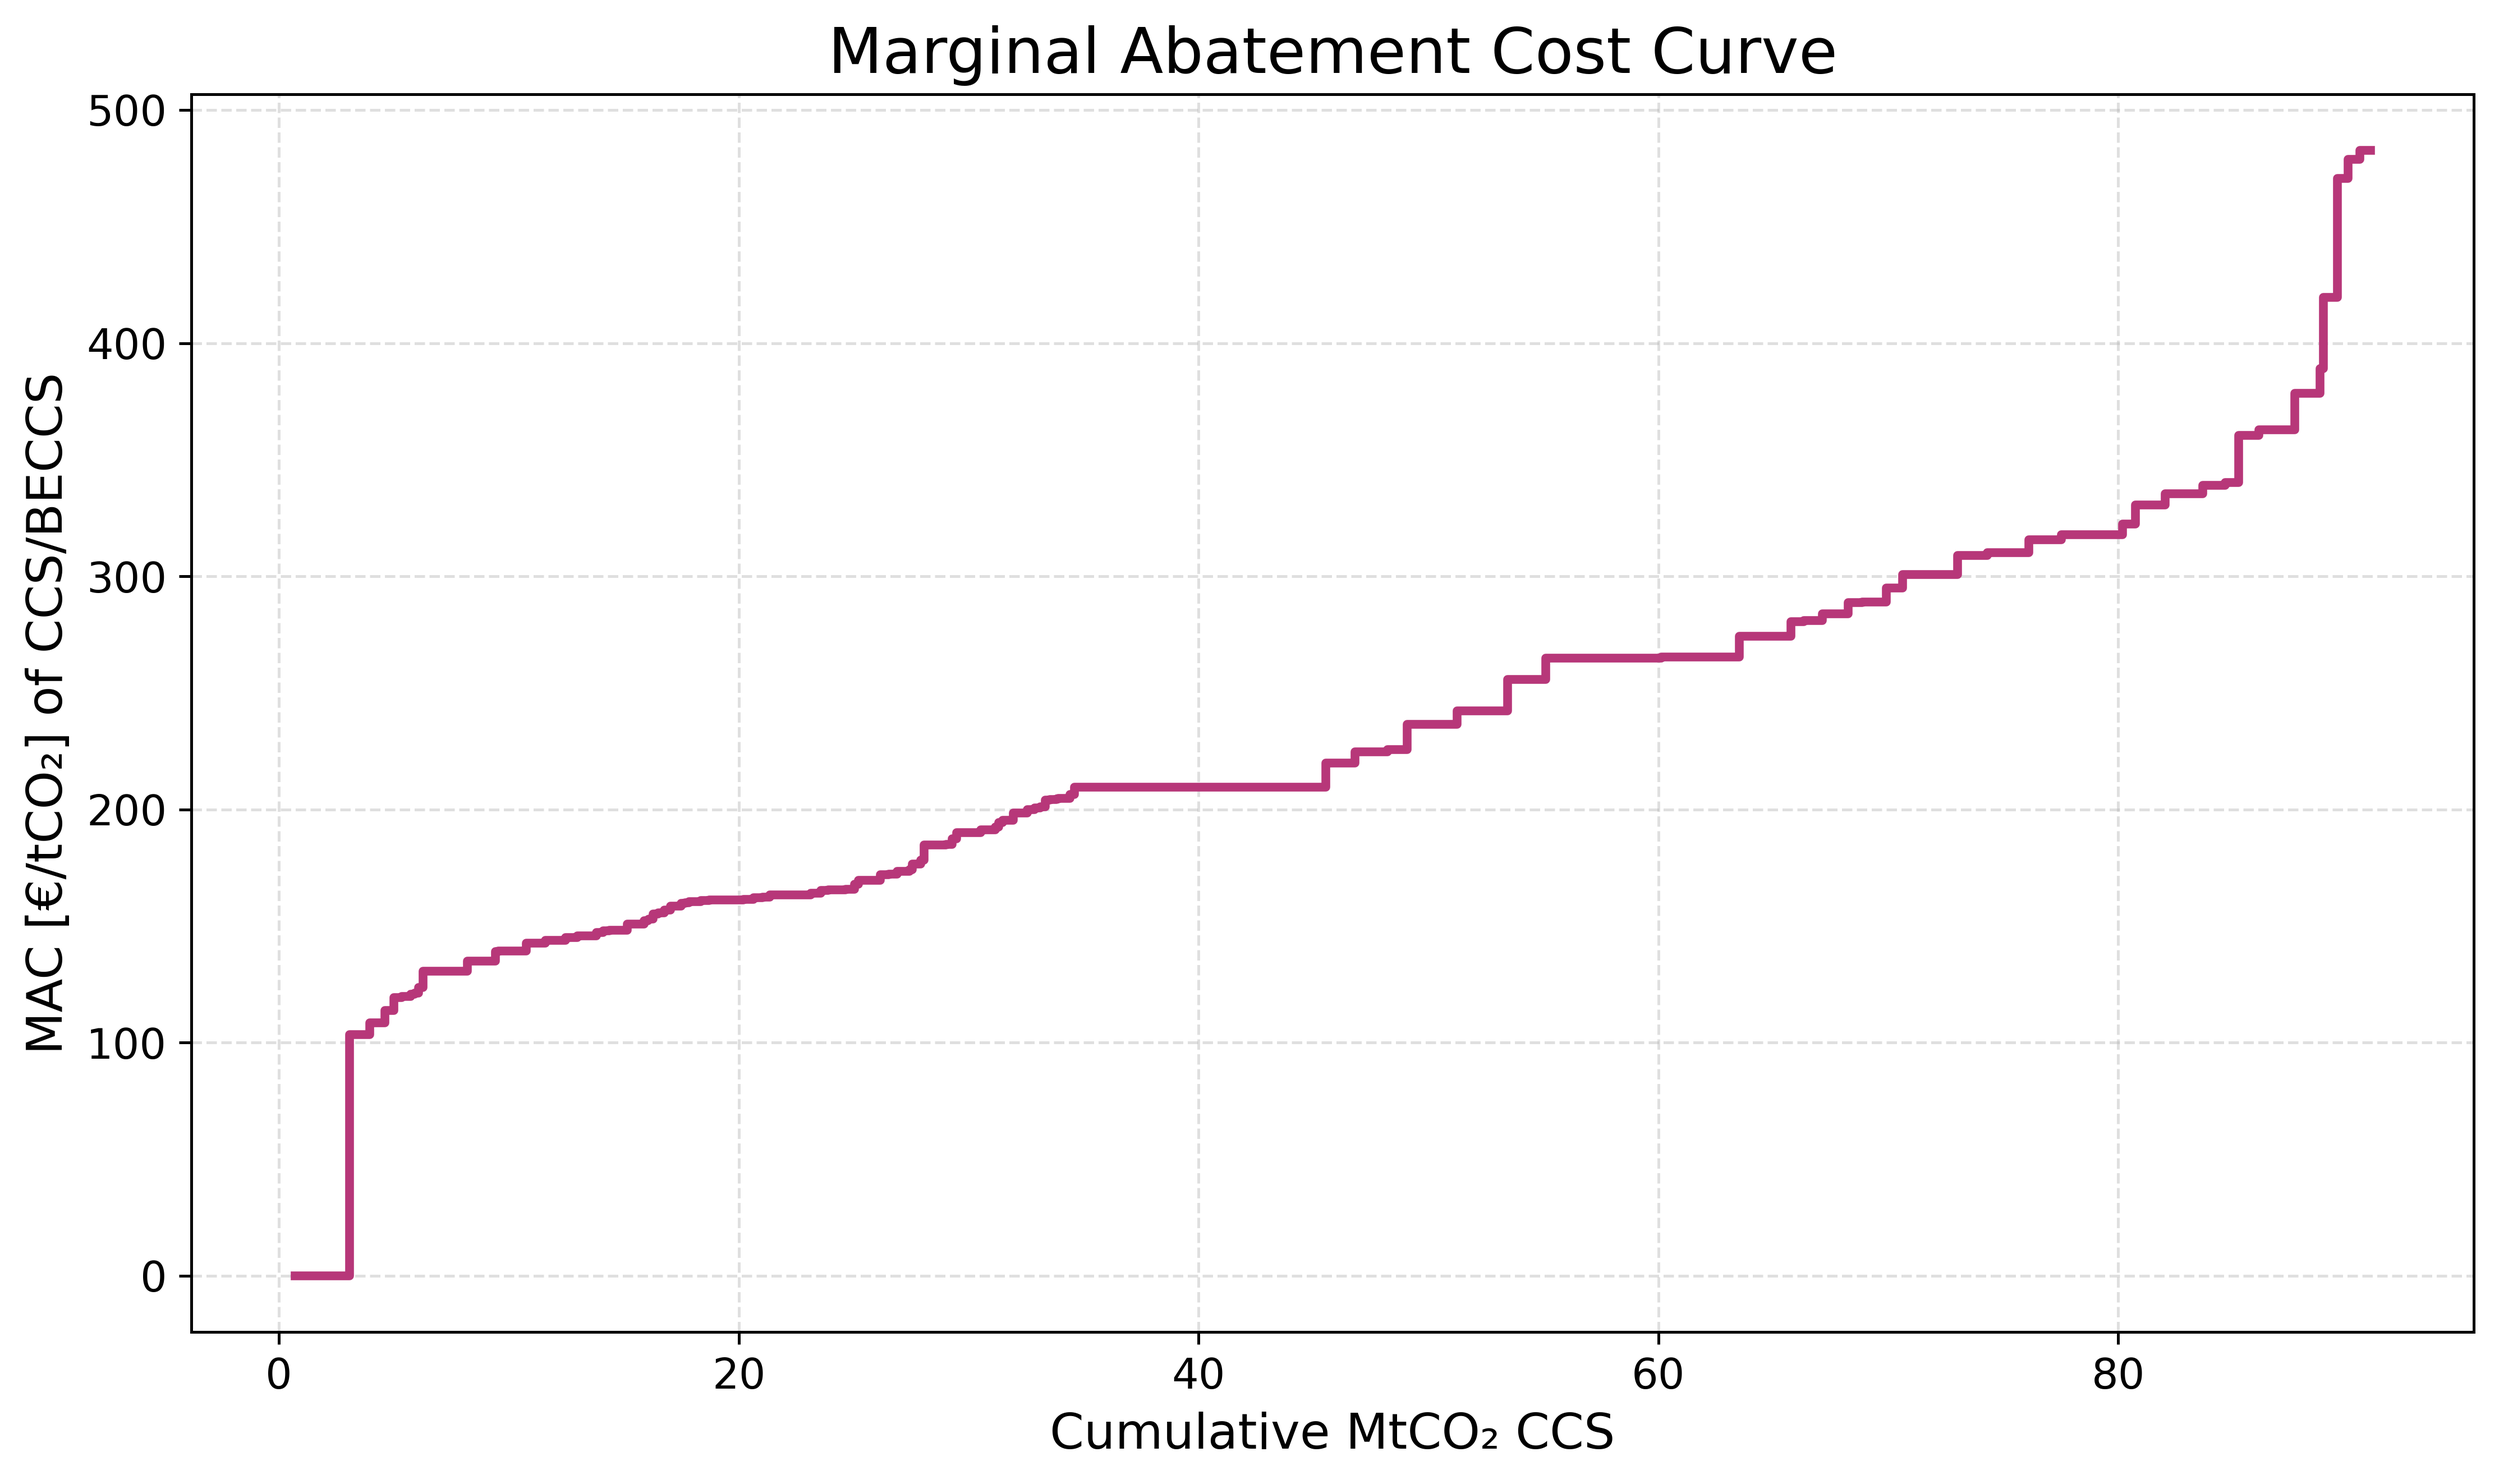
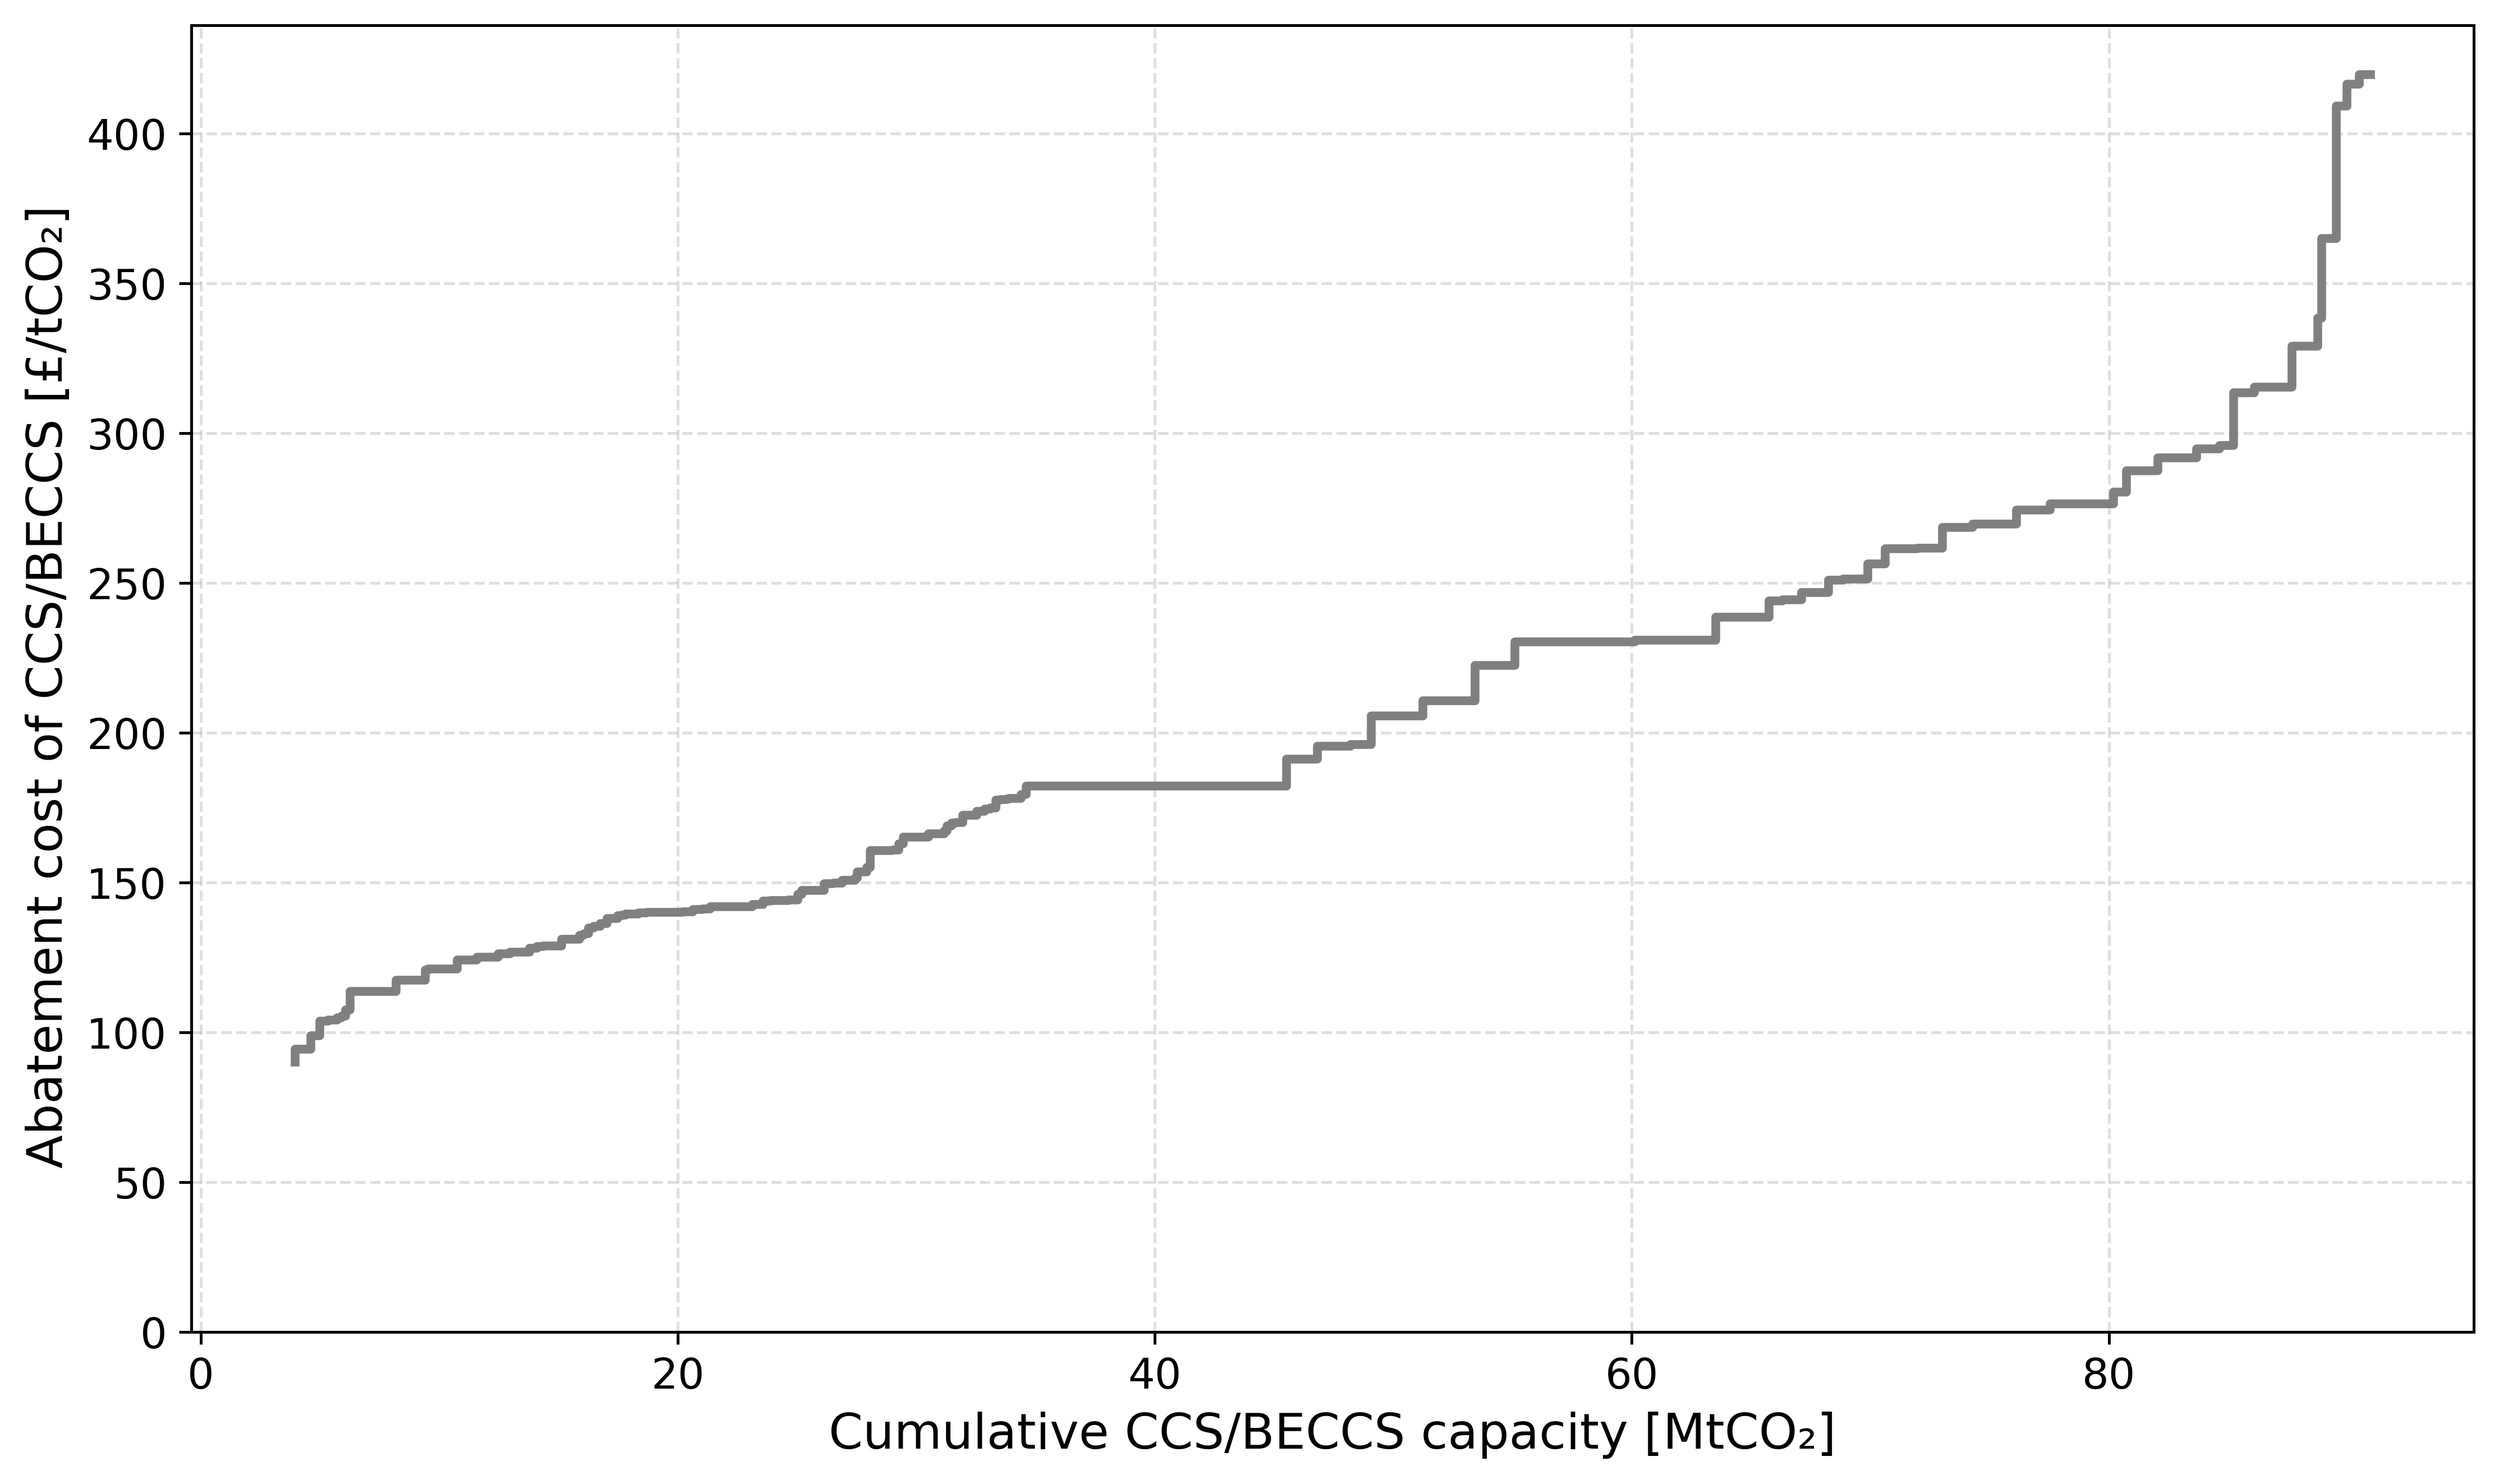
Making fancy plots

diff --git a/stylistic.py b/stylistic.py
@@ -1,7 +1,7 @@
 import numpy as np
 import matplotlib.pyplot as plt
 
-def plot_stylistic_supply_stored(debug=False):
+def plot_stylistic_supply_stored(color='gray', debug=False):
     """
     Stylistic stackplot showing CO2 supply (left y-axis) and CO2 stored (right y-axis).
     """
@@ -32,10 +32,10 @@ def plot_stylistic_supply_stored(debug=False):
     
     # Right y-axis: CO2 stored (empty for now, same ticks as left)
     ax2 = ax1.twinx()
-    ax2.set_ylabel('Carbon storage [MtCO₂/yr]', fontsize=14, color='#902c80')
+    ax2.set_ylabel('Carbon storage [MtCO₂/yr]', fontsize=14, color=color)
     ax2.set_ylim(0, 300)
     ax2.set_yticks([0, 100, 200, 300])
-    ax2.tick_params(labelsize=12, colors='#902c80')
+    ax2.tick_params(labelsize=12, colors=color)
     
     plt.tight_layout()
     plt.savefig('results/stylistic_supply_stored.png', dpi=450, bbox_inches='tight')
@@ -45,7 +45,7 @@ def plot_stylistic_supply_stored(debug=False):
     
     return fig
 
-def plot_stylistic_supply_vs_stored(debug=False):
+def plot_stylistic_supply_vs_stored(color='gray', debug=False):
     """
     Stylistic stackplot showing constant CO2 supply with quadratic CO2 stored overlay.
     """
@@ -77,11 +77,11 @@ def plot_stylistic_supply_vs_stored(debug=False):
     
     # Right y-axis: CO2 stored (stackplot)
     ax2 = ax1.twinx()
-    ax2.stackplot(years, stored, colors=['#902c80'], alpha=0.7, labels=['CO₂ stored'])
-    ax2.set_ylabel('Carbon storage [MtCO₂/yr]', fontsize=14, color='#902c80')
+    ax2.stackplot(years, stored, colors=[color], alpha=0.7, labels=['CO₂ stored'])
+    ax2.set_ylabel('Carbon storage [MtCO₂/yr]', fontsize=14, color=color)
     ax2.set_ylim(0, 300)
     ax2.set_yticks([0, 100, 200, 300])
-    ax2.tick_params(labelsize=12, colors='#902c80')
+    ax2.tick_params(labelsize=12, colors=color)
     
     plt.tight_layout()
     plt.savefig('results/stylistic_supply_vs_stored.png', dpi=450, bbox_inches='tight')
@@ -91,7 +91,7 @@ def plot_stylistic_supply_vs_stored(debug=False):
     
     return fig
 
-def plot_stylistic_decreasing_supply_stored(debug=False):
+def plot_stylistic_decreasing_supply_stored(color='gray', debug=False):
     """
     Stylistic stackplot showing decreasing CO2 supply with quadratic CO2 stored overlay.
     """
@@ -123,11 +123,11 @@ def plot_stylistic_decreasing_supply_stored(debug=False):
     
     # Right y-axis: CO2 stored (stackplot)
     ax2 = ax1.twinx()
-    ax2.stackplot(years, stored, colors=['#902c80'], alpha=0.7, labels=['CO₂ stored'])
-    ax2.set_ylabel('Carbon storage [MtCO₂/yr]', fontsize=14, color='#902c80')
+    ax2.stackplot(years, stored, colors=[color], alpha=0.7, labels=['CO₂ stored'])
+    ax2.set_ylabel('Carbon storage [MtCO₂/yr]', fontsize=14, color=color)
     ax2.set_ylim(0, 300)
     ax2.set_yticks([0, 100, 200, 300])
-    ax2.tick_params(labelsize=12, colors='#902c80')
+    ax2.tick_params(labelsize=12, colors=color)
     
     plt.tight_layout()
     plt.savefig('results/stylistic_decreasing_supply_stored.png', dpi=450, bbox_inches='tight')
@@ -138,7 +138,9 @@ def plot_stylistic_decreasing_supply_stored(debug=False):
     return fig
 
 if __name__ == "__main__":
-    plot_stylistic_supply_stored(debug=True)
-    plot_stylistic_supply_vs_stored(debug=True)
-    plot_stylistic_decreasing_supply_stored(debug=True)
+    magma = plt.cm.magma
+    color = magma(0.2)
+    plot_stylistic_supply_stored(color=color, debug=True)
+    plot_stylistic_supply_vs_stored(color=color, debug=True)
+    plot_stylistic_decreasing_supply_stored(color=color, debug=True)
     plt.show()

diff --git a/illustrate.py b/illustrate.py
@@ -150,7 +150,7 @@ def plot_gas_increase_boxplots(results_dir='results', pounds_to_EUR=1.15, ets_sc
     # ax.set_xlabel('Year', fontsize=14)
     ax.tick_params(labelsize=12)
     y1_min, y1_max = ax.get_ylim()
-    ax.set_ylim(y1_min, 4.7)
+    ax.set_ylim(y1_min, 4.9)
     
     # Secondary y-axis: annual household bill (11200 kWh avg consumption)
     household_consumption = 11200  # kWh/year
@@ -239,7 +239,7 @@ def plot_cost_ctbo_producers_boxplots(results_dir='results', pounds_to_EUR=1.15,
     ax.set_xticklabels(target_years, fontsize=12)
     ax.set_ylabel('CTBO cost to producers [B£/yr]', fontsize=14)
     ylims = ax.get_ylim()
-    ax.set_ylim(ylims[0], 27)
+    ax.set_ylim(ylims[0], 30)
     # ax.set_xlabel('Year', fontsize=14)
     ax.tick_params(labelsize=12)
     
@@ -432,7 +432,7 @@ def plot_plant_npv_bubbles(results_dir='results', ETS_filter=None, pounds_to_EUR
     ax.set_xlim(2025, 2050)
     ax.set_xticks(np.arange(2025, 2051, 5))
     y1_min, y1_max = ax.get_ylim()
-    ax.set_ylim(y1_min, 8000)
+    ax.set_ylim(-6000, 8000)
     
     fig.subplots_adjust(left=0.17, right=0.95, top=0.97, bottom=0.10)
     plt.savefig(f'{results_dir}/4_plant_npv_total_bubbles.png', dpi=450)
@@ -554,7 +554,7 @@ def plot_plant_npv_csu_bubbles(results_dir='results', ETS_filter=None, exclude_s
     ax.set_xlim(2025, 2050)
     ax.set_xticks(np.arange(2025, 2051, 5))
     y1_min, y1_max = ax.get_ylim()
-    ax.set_ylim(y1_min, 850)
+    ax.set_ylim(-50, 850)
     
     fig.subplots_adjust(left=0.17, right=0.95, top=0.97, bottom=0.10)
     plt.savefig(f'{results_dir}/4_plant_npv_csu_bubbles.png', dpi=450)
@@ -701,11 +701,12 @@ def plot_policy_npv_boxplots(results_dir='results', pounds_to_EUR=1.15, debug=Fa
     
     scenarios = ['£200', '£300', '£400']
 
-    npv_labels = ['Policy cost (CfD eq.)', 'Policy cost (CTBO)', 'Fuel supplier costs (CTBO)', 'Emitter and T&S profits (CTBO)']
+    # Labels and styling (reversed so first item appears at top in horizontal boxplot)
+    npv_labels = ['Policy cost (CfD eq., -20% cost)', 'Policy cost (CTBO)', 'Fuel supplier costs (CTBO)', 'Emitter and T&S profits (CTBO)'][::-1]
 
     green = '#62a7a6'
-    box_colors = [green, green, green, green]
-    box_alphas = [1, 1, 0.4, 0.4]
+    box_colors = [green, green, green, green][::-1]
+    box_alphas = [1, 1, 0.4, 0.4][::-1]
     
     # First pass: calculate data for all scenarios and find global min/max
     scenario_data = {}
@@ -737,12 +738,6 @@ def plot_policy_npv_boxplots(results_dir='results', pounds_to_EUR=1.15, debug=Fa
     
     if debug:
         print(f"Global y-axis limits: {ylim}")
-
-    # Flip order of boxes
-    npv_data = npv_data[::-1]
-    npv_labels = npv_labels[::-1]
-    box_colors = box_colors[::-1]
-    box_alphas = box_alphas[::-1]
     
     # Second pass: create figures with consistent y-axis
     figs = []
@@ -752,7 +747,7 @@ def plot_policy_npv_boxplots(results_dir='results', pounds_to_EUR=1.15, debug=Fa
                 print(f"No data for ETS_SCENARIO={scenario}")
             continue
         
-        npv_data = scenario_data[scenario]
+        npv_data = scenario_data[scenario][::-1]  # Reverse to match flipped labels/colors
 
         fig, ax = plt.subplots(figsize=(6.4, 3))
 

diff --git a/ctbo.py b/ctbo.py
@@ -569,6 +569,8 @@ def simulate_ctbo(
         ccgt_plants = plants_clean[plants_clean['sector'] == 'ccgt']
         ccgt_even = ccgt_plants.iloc[::2]
         plants_clean = pd.concat([plants_clean[plants_clean['sector'] != 'ccgt'], ccgt_even])
+    if single_run:
+        print("Total point-sources of carbon =", plants_clean['ktCO2'].sum(), "ktCO2")
 
     # ------------------- CONSTRUCT THE MACC ---------------------
     MACC = pd.DataFrame(columns=[
@@ -646,7 +648,7 @@ def simulate_ctbo(
 
     if single_run:
         MACC.to_csv('results/macc.csv', index=False)
-        plot_macc(MACC, savefig=True)
+        plot_macc(MACC, pounds_to_EUR=pounds_to_EUR, savefig=True)
 
     # ------------------- SIMULATE THE CTBO ---------------------
     # Calculate diffuse carbon trajectories by subtracting point-source carbon from total supply
@@ -1331,7 +1333,7 @@ def plot_npv_total_bubbles(npv_results, savefig=False, debug=False):
     
     return len(df)
 
-def plot_macc(macc, savefig=False, debug=False):
+def plot_macc(macc, pounds_to_EUR=1.15, savefig=False, debug=False):
     """
     Plot the MACC curve with cumulative ktCO2tot_ccs on the x axis and MAC on the y axis.
     """
@@ -1355,11 +1357,14 @@ def plot_macc(macc, savefig=False, debug=False):
     # Filter to only plot plants with MAC != 0 (but cumulative already includes MAC=0 capacity)
     macc_nonzero = macc_plot[macc_plot['MAC'] != 0]
 
+    # Convert MAC to £/tCO₂
+    macc_nonzero['MAC'] = macc_nonzero['MAC'] / pounds_to_EUR
+
     fig, ax = plt.subplots(figsize=(10, 6))
     ax.step(macc_nonzero['cumulative_kt']/1000, macc_nonzero['MAC'], where='pre', color='gray', linewidth=2.5)
-    ax.set_xlabel("Cumulative MtCO₂ CCS", fontsize=14)
-    ax.set_ylabel("MAC [€/tCO₂] of CCS/BECCS", fontsize=14)
-    ax.set_title("Marginal Abatement Cost Curve", fontsize=18)
+    ax.set_xlabel("Cumulative CCS/BECCS capacity [MtCO₂]", fontsize=14)
+    ax.set_ylabel("Abatement cost of CCS/BECCS [£/tCO₂] ", fontsize=14)
+    # ax.set_title("Marginal Abatement Cost Curve", fontsize=18)
     ax.grid(True, linestyle='--', alpha=0.4)
     ax.tick_params(labelsize=12)
     # Get the ylims

diff --git a/characterize_stacks.py b/characterize_stacks.py
@@ -262,9 +262,9 @@ def create_all_plants_map(europe, plants_gdf, bubble_scaling=1.0, remaining_gdf=
                 no_shipping.geometry.y,
                 marker='D',
                 s=120,
-                c='#62A7A6',
+                c='whitesmoke',
                 edgecolors='black',
-                linewidth=0.8,
+                linewidth=1.0,
                 label='Storage hub'
             )
         if len(shipping) > 0:
@@ -275,7 +275,7 @@ def create_all_plants_map(europe, plants_gdf, bubble_scaling=1.0, remaining_gdf=
                 s=120,
                 c='#E55064',
                 edgecolors='black',
-                linewidth=0.8,
+                linewidth=1.0,
                 label='Export hub'
             )
     legend = ax.legend(loc='lower left')
@@ -360,9 +360,9 @@ def create_sector_map(europe, plants_gdf, bubble_scaling=1.0, remaining_gdf=None
                 no_shipping.geometry.y,
                 marker='D',
                 s=120,
-                c='#62A7A6',
+                c='whitesmoke',
                 edgecolors='black',
-                linewidth=0.8,
+                linewidth=1.0,
                 label='Storage hub'
             )
             legend_handles.append(h1)
@@ -374,7 +374,7 @@ def create_sector_map(europe, plants_gdf, bubble_scaling=1.0, remaining_gdf=None
                 s=120,
                 c='#E55064',
                 edgecolors='black',
-                linewidth=0.8,
+                linewidth=1.0,
                 label='Export hub'
             )
             legend_handles.append(h2)

diff --git a/controller.py b/controller.py
@@ -110,7 +110,7 @@ if __name__ == "__main__":
         Constant("plants_clean", plants_clean),
         Constant("transport_hubs", transport_hubs),
         Constant("single_run", False),
-        Constant("PHASEOUT", False),
+        Constant("PHASEOUT", True),
         Constant("ASSUME_FOAK", False),
         Constant("CTBO_QUADRATIC", 0.4),
         Constant("DISCOUNT_RATE", 0.035),
